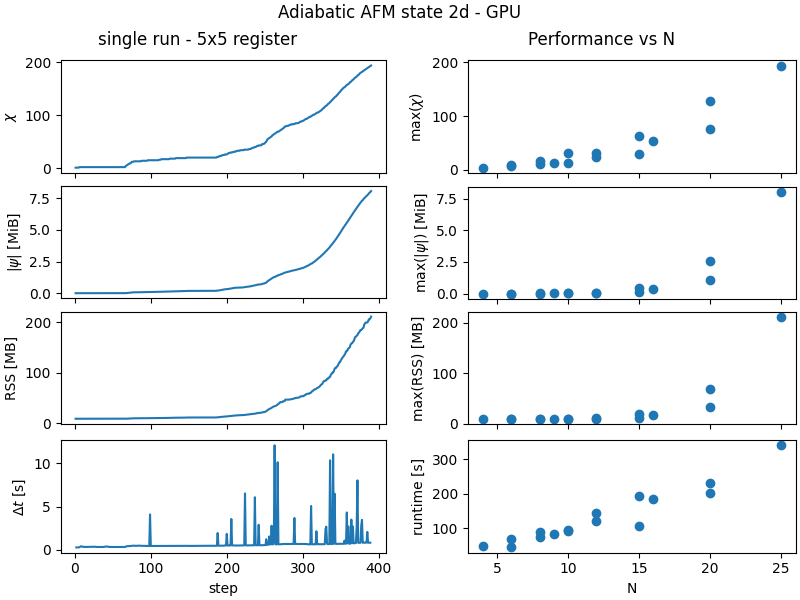
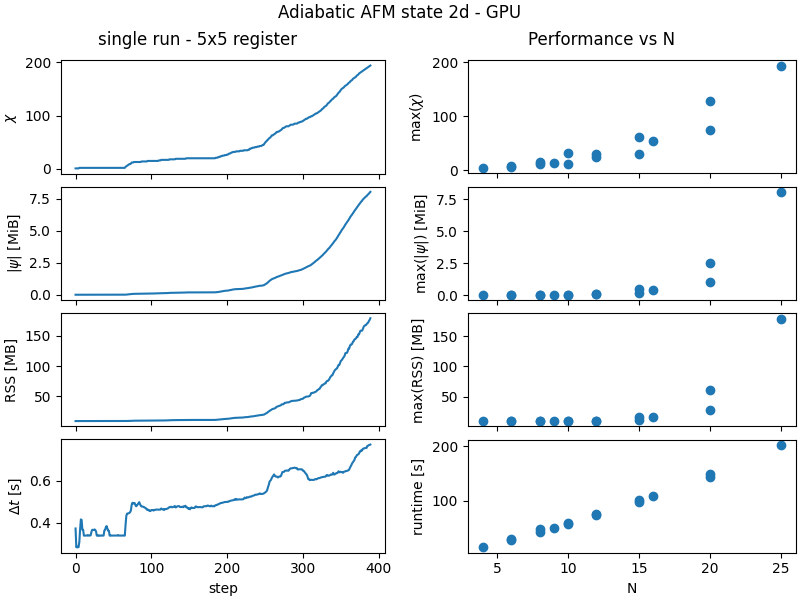
noise performance benchmark

diff --git a/ci/emu_mps/benchmarks/afm_state_gpu_with_noise/benchmark.py b/ci/emu_mps/benchmarks/afm_state_gpu_with_noise/benchmark.py
@@ -1,0 +1,47 @@
+from pathlib import Path
+from benchmarkutils.sequenceutils import make_adiabatic_afm_state_2d_seq
+from benchmarkutils.plotutils import plot_performance_2d_benchmark
+import emu_mps
+import multiprocessing as mp
+from pulser import NoiseModel
+
+script_dir = Path(__file__).parent
+res_dir = script_dir / "results"
+res_dir.mkdir(exist_ok=True)
+
+title = "Adiabatic AFM state 2d - GPU"
+print(f"Starting {title} benchmark")
+
+backend = emu_mps.MPSBackend()
+
+statistics = mp.Manager().dict()
+
+
+def run_simulation(Nx, Ny):
+    seq = make_adiabatic_afm_state_2d_seq(Nx, Ny)
+    noise_model = NoiseModel(
+        depolarizing_rate=0.5,
+    )
+    config = emu_mps.MPSConfig(
+        num_gpus_to_use=1,
+        log_file=res_dir / f"log_{Nx}x{Ny}.log",
+        noise_model=noise_model,
+    )
+    results = backend.run(seq, mps_config=config)
+    results.dump(res_dir / f"results_{Nx}x{Ny}.json")
+    statistics[(Nx, Ny)] = results.statistics
+
+
+Nxs = [2, 3, 4, 5]
+Nys = [2, 3, 4, 5]
+for Nx in Nxs:
+    for Ny in Nys:
+        # Run simulation in a separate process for correct measurement of ru_maxrss.
+        process = mp.Process(target=run_simulation, args=(Nx, Ny))
+        process.start()
+        process.join()
+
+
+plot_performance_2d_benchmark(
+    statistics=statistics, title=title, output=res_dir / f"{script_dir.name}.png"
+)

diff --git a/docs/benchmarks/noise.md b/docs/benchmarks/noise.md
@@ -10,9 +10,11 @@ The following plot illustrates the time evolution of the initial state under the
 
 The goal of this study is to demonstrate that the results obtained using the Monte Carlo method implemented in EMU-MPS are qualitatively similar to those found by solving the Lindblad master equation in Pulser.
 
-<img src="../benchmark_plots/afm_state_fidelity_with_noise.png"  width="49.7%">
+<img src="../benchmark_plots/afm_state_fidelity_with_noise.png">
 
 The key advantage of the Monte Carlo method, if the Hilbert space of $N$ qubits has dimension $dim(H) = d^N$, then propagating the density matrix using the Lindblad equation requires handling an object of size $[dim(H)]^2$. In contrast, the stochastic sampling of states with EMU-MPS involves the propagation of state vectors of size $dim(H)$ only. This drastically reduces the memory cost of the simulation, especially when the number of qubits is large. In return, the Monte Carlo method requires performing many runs if sample statistics are desired.
+
+## Accuracy of the method
 
 In this study, we consider two different depolarization noise rates: **$0.2$** and **$0.5$**. These represent different levels of interaction with the environment, with $0.5$ introducing stronger noise effects than $0.2$. For the EMU-MPS simulations, the following parameters are used:
 
@@ -23,3 +25,22 @@ In this study, we consider two different depolarization noise rates: **$0.2$** a
 Since the Monte Carlo method in EMU-MPS relies on stochastic sampling, the number of Monte Carlo runs chosen by the user determines the accuracy of the simulation. Each data point (e.g., in the energy plot) in the EMU-MPS results represents the **statistical average observable value across all Monte Carlo runs at a given time $t$**. The plots demonstrate that with $100$ Monte Carlo runs, EMU-MPS already yields qualitative agreement with Pulser. We expect that, increasing the number of Monte Carlo runs should smoothen the EMU-MPS curves further, leading to even closer agreement with the Pulser method.
 
 The overall energy of the system initially rises due to the presence of depolarizing noise, which introduces interactions between the system and the environment. This interaction reduces even further the strength of the spin correlations in the paramagnetic state. The system with higher noise rate ($0.5$) experiences stronger interaction effects, leading to a more pronounced increase in both the energy and energy fluctuations $\Delta E$. However, as the system continues to evolve, it begins to move toward an antiferromagnetic (AFM) correlated state, causing the energy and fluctuations to decrease. During this middle phase, the spin correlations become more meaningful, and the state grows gradually ordered. Eventually, the system undergoes a quantum phase transition at $t \approx 3000$ ns, moving from a paramagnetic state, where the spins are randomly aligned, to a true AFM state with well-defined spin ordering. This transition is reflected in the further reduction of energy fluctuations as the state becomes antiferromagnetic.
+
+## Performance
+
+Above we discussed the behaviour of an average over a larger number of noisy runs. Now, let us discuss the performance characteristics of a single run in more detail.
+
+In the following graph we show the performance characteristics of a single run of the above sequence, as a function of the time step, and as a function of qubit number. Do note that we have used the default precision of $10^{-5}$, because that makes the parameters the same as the noiseless adiabatic benchmark [here](./performance.md#adiabatic-sequence). This allows us to discuss the effect of adding Lindbladian noise to simulations on the performance characteristics.
+
+<img src="../benchmark_plots/afm_state_gpu_with_noise.png">
+
+One thing we immediately see is that all the bond dimensions are larger than in the noiseless case. As discussed above, the depolarizing noise pumps energy into the system, causing more high-energy states to be excited. When averaged over many runs, this causes correlations in the system to decrease, but during a single run, this means many highly-entangled states are excited by the quantum jumps, leading to a stark rise in the bond-dimension. Most of the difference in memory usage and runtime can be attributed to the fact that the quantum state being simulated is more complex than in the noiseless case. However, two effects particular to the simulation of noisy systems are visible in the graph:
+
+- The peaks in the $\Delta t$ graph correspond to the occurence of a quantum jump
+- In the absence of a quantum jump, the time for a single step is still longer.
+
+Regarding the first item, on the cluster you will occasionally see spikes in the time required for a single step even in the noiseless case. In that case, it is caused by load on the hardware from other jobs and more subtle factors. When doing quantum jumps, it is actually a feature of the algorithm. When doing a timestep according to the config parameter `dt`, the time evolution generally overshoots the time when a jump needs to occur. A numerical root-finding algorithm is employed to evolve the state to the actual jump time, after which the quantum jump is performed and the system is evolved again to complete the timestep of length `dt`. This means that a minimum of three time evolutions have to be performed when a quantum jump occurs in the middle of a `dt` interval. Looking at the height of the peaks in runtime, we see that they are mostly 3 or 4 times the height of the baseline, meaning that the root-finding algorithm converges to the collapse point in 1 or 2 steps the majority of the time, which is good performance. Note that the number of quantum jumps in the graph is quite large, because the depolarizing rate is `0.5`, which is much bigger than any of the noise rates in the physical device.
+
+Regarding the second point above, the effective Hamiltonian used to evolve the system is no longer Hermitian ([see here](../advanced/noise.md)), and our time-evolution algorithm is more expensive on non-Hermitian matrices. The overhead is dependent on the bond-dimension of the system. At the start, when the bond-dimension is close to 1, we see an overhead of about 10% runtime per step, but as the bond-dimension increases to 1000, it grows to around 50%.
+
+Since the runtime and memory required to compute a single time step depend polynomially on the bond-dimension, the most important question in determining the effect of noise on the performance of the simulation is how the bond-dimension of the state will be affected by said noise. In the example presented here, we used an adiabatic sequence for anti-ferromagnetic state preparation, and the noise can be seen to negatively impact adiabaticity of the sequence close to the quantum phase transition, just as if the qubit number increases<sup>[[1]](../advanced/convergence/index.md)</sup>. This, in turn, means that for this specific pulse sequence, noise negatively impacts the size of the system that can still be simulated. The degree to which this effect manifests will depend on the sequence being simulated, and the type of noise under consideration.

diff --git a/docs/advanced/convergence/index.md b/docs/advanced/convergence/index.md
@@ -1,6 +1,6 @@
 # Validating correctness of the results from a simulation
 
-By limiting the bond dimension of the state, systems of arbitrary size can be simulated ([memory consumption](../memory.md)). However, when truncation of the state hits the hard cap of `max_bond_dim`, control over the error incurred by truncation is lost, and care must be taken that the results are still accurate. By setting `max_bond_dim = 1600` `extra_krylov_tolerance=1e-5` and `precision=1e-6`, we were able to run the adiabatic pulse from the [benchmarks](../../benchmarks/index.md#adiabatic-sequence) for a 7x7 grid. This is a pulse that creates an antiferromagnetic state for smaller grids. However, whether or not a state is still effectively adiabatic depends on the energy gap of the system, and this decreases with system size. This example is instructive because lack of antiferromagnetic structure for larger systems does not automatically mean that the simulation was not accurate. The obtained qubit density was
+By limiting the bond dimension of the state, systems of arbitrary size can be simulated ([memory consumption](../memory.md)). However, when truncation of the state hits the hard cap of `max_bond_dim`, control over the error incurred by truncation is lost, and care must be taken that the results are still accurate. By setting `max_bond_dim = 1600` `extra_krylov_tolerance=1e-5` and `precision=1e-6`, we were able to run the adiabatic pulse from the [benchmarks](../../benchmarks/index.md#sequences-used) for a 7x7 grid. This is a pulse that creates an antiferromagnetic state for smaller grids. However, whether or not a state is still effectively adiabatic depends on the energy gap of the system, and this decreases with system size. This example is instructive because lack of antiferromagnetic structure for larger systems does not automatically mean that the simulation was not accurate. The obtained qubit density was
 
 <table>
   <tr><td>0.87 </td><td> 0.47 </td><td> 0.62 </td><td> 0.56 </td><td> 0.62 </td><td> 0.47 </td><td> 0.87 </td></tr>
@@ -16,7 +16,7 @@ By limiting the bond dimension of the state, systems of arbitrary size can be si
 
 First let's discuss whether these results are trustworthy, and then how the values of `max_bond_dim` and `precision` were obtained iteratively.
 
-__For verifying the validity of the results, users should vary the parameters of the emulator until the results become insensitive to their variation__ ([see here](../errors.md#truncation-of-the-state)). This is what was done to obtain the above results, and then the main question is whether long-range interactions are correctly taken into account by the TDVP algorithm. It is worth noting that TDVP is a 1-d algorithm, so that qubits that are close in physical space are not necessarily close in the MPS layout. Specifically, the register ordering we used in the MPS simply concatenates all the colums of the above grid, and uses the resulting linear ordering, so while qubit $(1,1)$ and $(1,2)$ are neighbours in the MPS, qubits $(1,1)$ and $(2,1)$ are not, and this creates an artifical long-range interaction, which TDVP handles through an effective description ([see here](../../benchmarks/index.md#qubit-shuffling)). If the effective description of the interaction did not take the Rydberg interaction properly into account, we would expect to see different structure in the qubit densities along the horizontal axis than along the vertical one, due to the error in the effective description. This is not the case because the table of qubit densities shown above obeys the symmetries of the grid: the table can be reflected along the horizontal and vertical axis, as well as rotated by right angles (and because these tranformations form a group, reflection symmetry around the diagonals follows, etc.).
+__For verifying the validity of the results, users should vary the parameters of the emulator until the results become insensitive to their variation__ ([see here](../errors.md#truncation-of-the-state)). This is what was done to obtain the above results, and then the main question is whether long-range interactions are correctly taken into account by the TDVP algorithm. It is worth noting that TDVP is a 1-d algorithm, so that qubits that are close in physical space are not necessarily close in the MPS layout. Specifically, the register ordering we used in the MPS simply concatenates all the colums of the above grid, and uses the resulting linear ordering, so while qubit $(1,1)$ and $(1,2)$ are neighbours in the MPS, qubits $(1,1)$ and $(2,1)$ are not, and this creates an artifical long-range interaction, which TDVP handles through an effective description ([see here](../../benchmarks/performance.md#qubit-shuffling)). If the effective description of the interaction did not take the Rydberg interaction properly into account, we would expect to see different structure in the qubit densities along the horizontal axis than along the vertical one, due to the error in the effective description. This is not the case because the table of qubit densities shown above obeys the symmetries of the grid: the table can be reflected along the horizontal and vertical axis, as well as rotated by right angles (and because these tranformations form a group, reflection symmetry around the diagonals follows, etc.).
 
 Since the qubit density results have symmetries that we expect to be broken by the errors intrinsic in TDVP, it is likely that the above results are correct even though only weak antiferromagnetic structure is present. Instead, the lack of antiferromagnetic structure probably occurs because the pulse used is no longer effectively adiabatic for this system size.
 

diff --git a/docs/index.md b/docs/index.md
@@ -57,10 +57,11 @@ containing the following:
 
 ```
 [global]
-extra-index-url=https://<USERNAME>:<PASSWORD>@gitlab.pasqal.com/api/v4/projects/190/packages/pypi/simple
+extra-index-url=https://gitlab.pasqal.com/api/v4/projects/597/packages/pypi/simple
+                possible.other.urls
 ```
 
-For the username and password required for the above url, please contact a member of emulation team or qlibs.
+The repo above is publically accessible without authentication.
 
 
 It is also possible to add the `extra-index-url` to the `pip install` command directly, if you somehow don't want to create a `pip.conf` file.
@@ -105,6 +106,9 @@ pip install -e .
 
 ## Running a Pulser sequence and getting results
 
+<<<<<<< HEAD
+Several example notebooks are included in the online documentation. The index page for them can be found [here](./notebooks/index.md).
+=======
 EMU-MPS is meant to run Pulser sequences. Assuming the existence of a Pulser sequence called `seq` (see the [Pulser docs](https://pulser.readthedocs.io/en/stable/tutorials/creating.html)), you can do the following
 
 ```python
@@ -129,6 +133,7 @@ strings = results.get_result(bitstrings.name(), bitstring_times[0])
 In the above, `strings` will be a `Counter[str]` that counts the occurrences of each bitstring that was measured.
 Note that the emulation stops at the largest multiple of `dt` which is not larger than the sequence duration.
 So if you make a Pulser sequence the duration of which is not a multiple of `dt`, the simulation time will fall slightly short.
+>>>>>>> main
 
 ## Supported features
 
